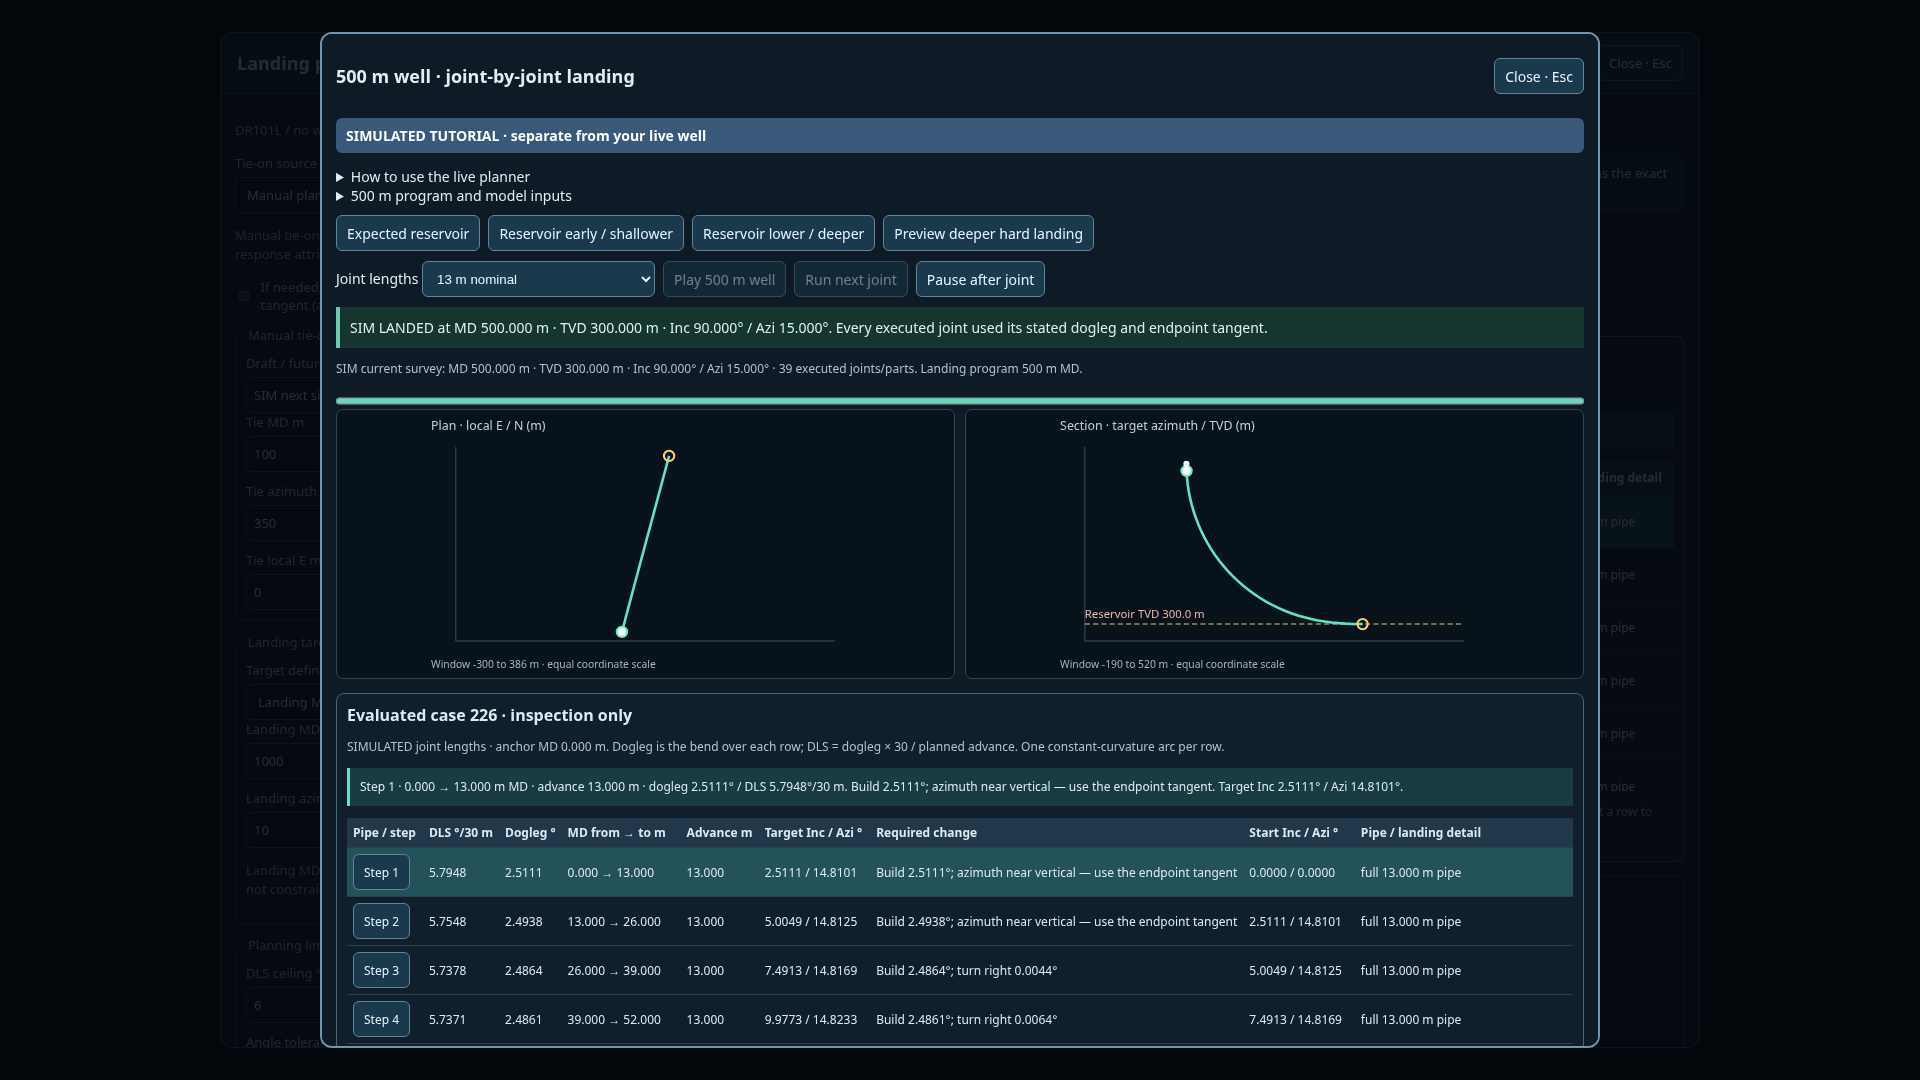
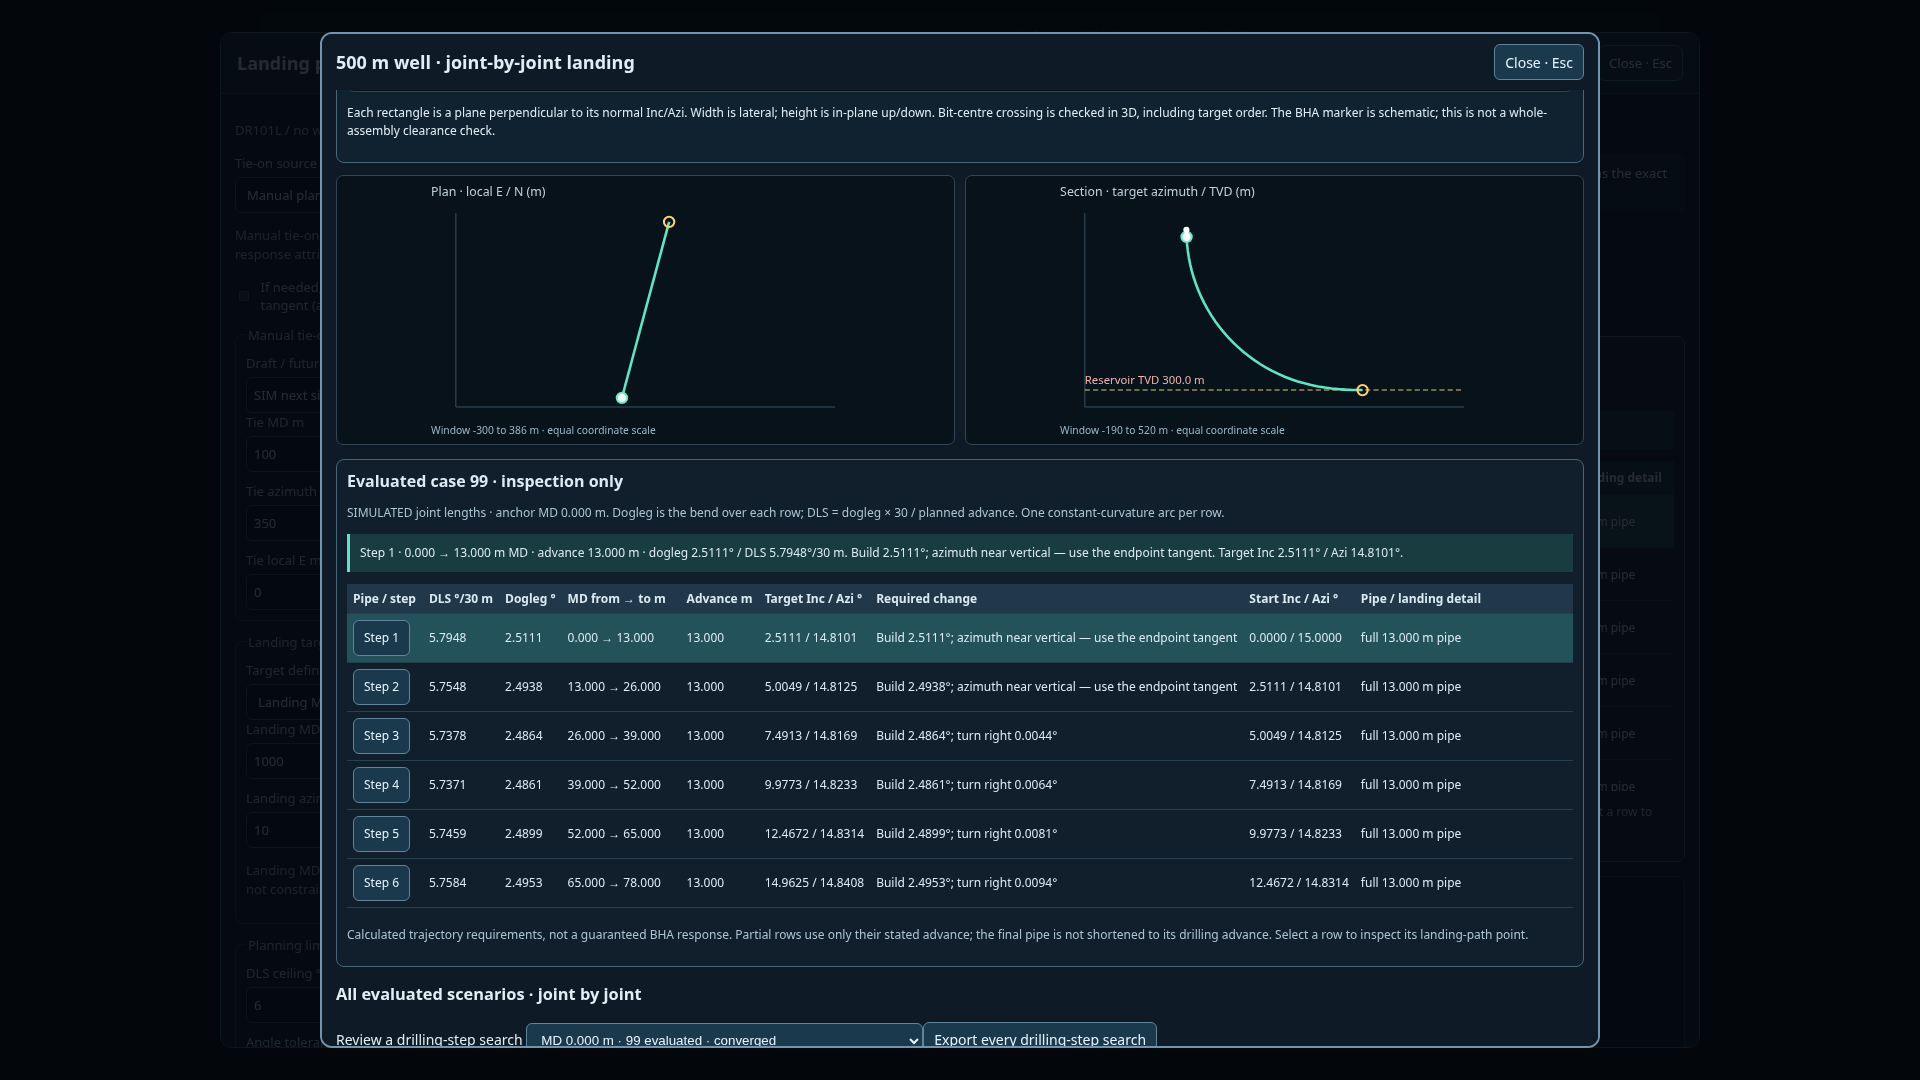
Add constrained rectangular spatial targets and animated 3D bit crossings to landing SIM

Changed region(s): [[0.1562, 0.0306, 0.8438, 0.9778]]

diff --git a/drilling/opsnow.js b/drilling/opsnow.js
@@ -8,7 +8,7 @@ import {referenceScope,loadMeasuredReference,inventoryPosition,inventoryResetLab
 import {checkpointState,renderHardpoints,STORAGE_KEY} from './opsnow_hardpoints.mjs?v=hardpoint1118';
 import {uploadedReference} from './opsnow_measured_upload.mjs?v=hardpoint1118';
 import {reportedOperation,reportDepthIssue,drillingReferenceMd,renderOperationReport} from './opsnow_operation_report.mjs?v=eow1118';
-import {initLandingPlanner} from './opsnow_landing.mjs?v=landing-search2';
+import {initLandingPlanner} from './opsnow_landing.mjs?v=landing-windows1';
 import * as W from './opsnow_wire.js?v=re1115';
 import * as VW from './opsnow_views.js?v=re1115';
 import * as A from './opsnow_ac.js?v=re1115';

diff --git a/drilling-tests/LANDING-PLANNER.md b/drilling-tests/LANDING-PLANNER.md
@@ -155,7 +155,7 @@ a cancellable worker; stale results are discarded across edits and scope changes
 
 ## Verification
 
-`npm test --prefix drilling-tests`: 89 passing tests, including 25 landing tests
+`npm test --prefix drilling-tests`: 95 passing tests, including 31 landing tests
 for analytic geometry, wrap-around, duplicate holds, target/MD constraints,
 infeasible DLS, sensitivity, scoped BHA intervals, recorded steering fits and
 warning thresholds. Browser evidence is under `landing-evidence/`.
@@ -207,3 +207,56 @@ immutability. Desktop/phone browser checks execute the full normal and shallower
 wells, the deeper preview, its red sign and its explicit 510 m continuation. They
 also exercise measured CSV, active-tally/BHA alignment, partial rows, markers and
 joint CSV exports. Tutorial execution still leaves the live form/storage unchanged.
+
+
+## Rectangular spatial targets in the tutorial
+
+Open **How to · simulation**. The rotatable **3D rectangular targets** view shows
+the bit/BHA marker, the fixed drilled prefix and the selected remaining path.
+Drag on the view or use Rotate, Top and Side buttons; focused arrow keys also
+rotate it. Amber windows are ahead, green windows have actually been crossed
+inside, and red outlines show missed or planned-to-miss windows. The moving bit
+uses the same minimum-curvature arc and MD as the joint instructions.
+
+Three illustrative 24 × 24 m windows are seeded from the initial validated SIM
+reference path at approximately MD 120 m, MD 240 m and landing. They are then
+frozen across replanning; candidate paths must pass them. This deliberately makes
+the first demonstration achievable, rather than inventing surveyed geology. Only
+the preset landing window follows the explicitly changed reservoir target TVD.
+Custom windows stay fixed through reservoir interpretation changes.
+
+Expand **Edit / add target rectangles** to enter local N/E/TVD centre coordinates,
+width, height and normal inclination/azimuth. Width is lateral in the target plane;
+height is the in-plane up/down dimension. These are true 3D planes, not axis-aligned
+screen boxes. Add/remove windows and move their rows up/down to set crossing order.
+Up to 12 required windows are supported; dimensions are 0.1–1,000 m. **Apply windows
+· restart SIM** explicitly restarts the tutorial with those fixed targets. Editing
+pauses execution until application; it cannot move an already-drilled prefix.
+Custom windows survive joint-length changes. SIM edits never alter the live form,
+feed, saved BHA or well plan.
+
+Every candidate is checked against every remaining window. A forward crossing
+must lie within both rectangle dimensions and follow the preceding target in MD.
+The plane-distance equation on each constant-curvature joint arc is split at its
+analytic extrema, then roots are bracketed: crossings between station endpoints
+are detected even when both endpoints lie on the same side. Lateral misses cannot
+pass solely because a side-view projection appears aligned. Edge crossings are
+inclusive at 1 micrometre numerical tolerance. A coplanar arc or reverse passage
+is not a forward crossing. Window violation contributes to refinement priority,
+and any missed required window makes that candidate infeasible. Execution refuses
+it. The search still makes no global feasibility guarantee.
+
+The panel reports planned and actual crossing MD, with the full crossing position,
+in-plane offsets and rejection in exported evaluated-case records. Completed
+windows leave the remaining constraints but remain green in the 3D view and in
+each historical search snapshot. All tutorial histories export their windows too.
+The marker represents the bit centre and a schematic BHA tail: this feature does
+not certify clearance of the full BHA body or account for positional uncertainty.
+
+Six new unit tests cover oriented dimensions, validation, forward/reverse/edge and
+out-of-order crossings, hidden curved-arc crossings, lateral misses, full gated
+500 m execution, exact ledger reconstruction and solver adjustment for an offset
+window. Desktop/phone browser checks verify all three green crossings at MD 500,
+3D rotation, add/remove/edit and validation, an unreachable target blocking play,
+and unchanged live settings. Unpublished-host acceptance checks the real 3D files
+and window outcomes before release.
